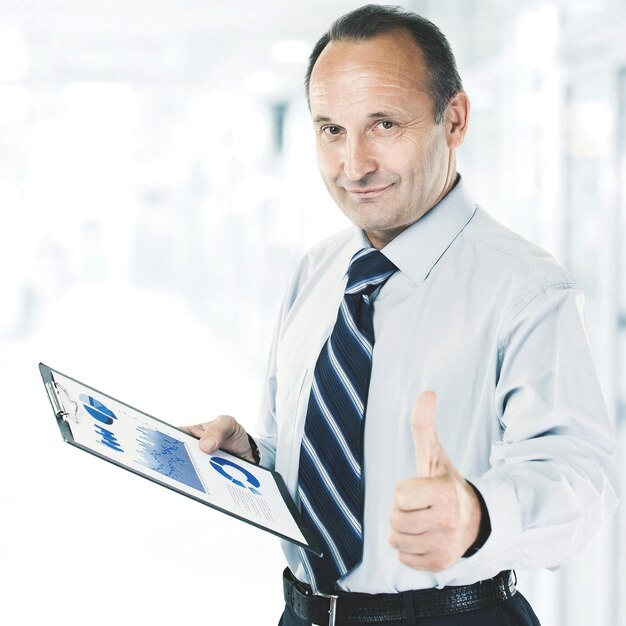
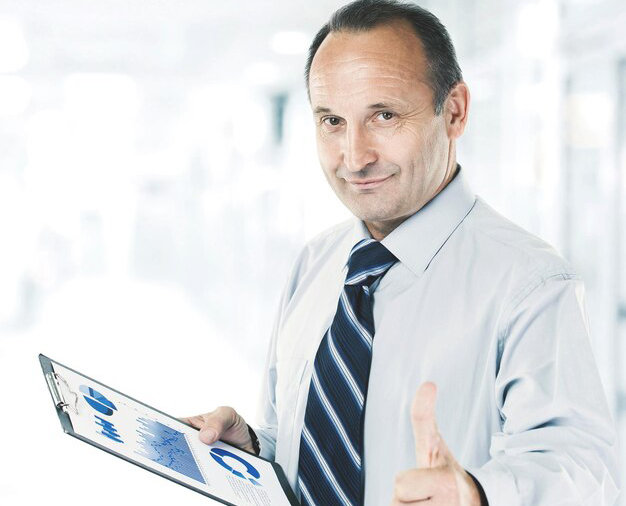
imageSet

diff --git a/src/app/components/landingpage/guaidanceCard/page.js b/src/app/components/landingpage/guaidanceCard/page.js
@@ -4,8 +4,8 @@ import React from 'react'
 const GuaidanceCard = () => {
     return (
         <div className='lg:flex block '>
-            <div className='w-full  lg:w-[40%] bg-white shadow-2xl p-10'>
-                <p className='text-4xl font-bold text-headingColor my-6'>Expert Guidance:</p>
+            <div className='w-full lg:h-[500px] h-full lg:w-[50%] bg-white shadow-2xl p-10'>
+                <p className='text-4xl font-bold text-headingColor my-2'>Expert Guidance:</p>
                 <div className='w-full h-1.5 bg-btnColor my-10'></div>
                 <p className='text-headingColor  text-md my-4'>In addition to our advanced technological tools, benefit from our team’s expertise:</p>
                 <p className='text-headingColor  text-md my-4'>-Banking Experts: Gain insights on best practices for presenting your project to banks. </p>
@@ -13,8 +13,8 @@ const GuaidanceCard = () => {
                 <p className='text-headingColor  text-md my-4'>- Insurance Professionals: Ensure your project is secured and compliant with investor requirements. </p>
                 <p className='text-headingColor  text-md my-4'>Each user receives a complimentary consultation with one of our experts to better steer their project.</p>
             </div>
-            <div className='w-full lg:w-[60%]'>
-                <Image className='w-full lg:h-full h-[300px]' src="/images/expertguidance.jpg" width={1000} height={1000} />
+            <div className='w-full lg:w-[50%]'>
+                <Image className='w-fulllg:w-[500px] lg:h-[500px] h-[300px]' src="/images/expertguidance.jpg" width={1000} height={1000} />
             </div>
         </div>
     )

diff --git a/src/app/components/landingpage/chooseCard/page.js b/src/app/components/landingpage/chooseCard/page.js
@@ -4,14 +4,14 @@ import React from 'react'
 const ChooseCard = () => {
     return (
         <div className='lg:flex block '>
-            <div className='w-full  lg:w-[40%] bg-white shadow-2xl p-10'>
+            <div className='w-full  lg:w-[50%] bg-white shadow-2xl p-10'>
                 <p className='text-4xl font-bold text-headingColor my-6'>Why Choose IziKemp?</p>
                 <p className='text-headingColor  text-lg mt-20 my-4'>- Accuracy and Trust: Our tools are based on recognized criteria, offering you a reliable analysis</p>
                 <p className='text-headingColor  text-lg my-4'>- Customization and Support:
                     Each report is unique and tailored to your project, with personalized guidance. </p>
                 <p className='text-headingColor  text-lg my-4'>- Dedicated Support: Our team is here to support you every step of the way.</p>
             </div>
-            <div className='w-full lg:w-[60%]'>
+            <div className='w-full lg:w-[50%]'>
                 <Image className='w-full lg:h-full h-[300px]' src="/images/financingsimulators.jpg" width={1000} height={1000} />
             </div>
         </div>

diff --git a/src/app/components/landingpage/heroSection/page.js b/src/app/components/landingpage/heroSection/page.js
@@ -4,10 +4,10 @@ import React from 'react'
 const HeroSection = () => {
     return (
         <div className='lg:flex block my-10'>
-            <div className='w-full lg:w-[60%]'>
-                <Image className='w-full lg:h-[500px] h-[300px]' src="/images/landingpage.png" width={1000} height={1000} />
+            <div className='w-full lg:w-[50%]'>
+                <Image className='w-[300px]  lg:w-[500px] lg:h-[500px] h-[300px]' src="/images/landingpage.png" width={1000} height={1000} />
             </div>
-            <div className='w-full  lg:w-[40%] bg-white shadow-2xl p-10'>
+            <div className='w-full  lg:w-[50%] bg-white shadow-2xl p-10'>
                 <p className='text-4xl font-bold text-headingColor my-6'>Boost Your Funding Prospects with IziKemp!</p>
                 <p className='text-headingColor text-lg my-8'>Access cutting-edge simulators and instantly generate personalized reports to assess your eligibility with banks and investment funds, accompanied by our expert guidance.</p>
             </div>

diff --git a/src/app/components/landingpage/sectionCard/page.js b/src/app/components/landingpage/sectionCard/page.js
@@ -4,10 +4,10 @@ import React from 'react'
 const SectionCard = () => {
     return (
         <div className='lg:flex block my-10'>
-            <div className='w-full lg:w-[60%]'>
+            <div className='w-full lg:w-[50%]'>
                 <Image className='w-full lg:h-full h-[300px]' src="/images/image1.jpg" width={1000} height={1000} />
             </div>
-            <div className='w-full  lg:w-[40%] bg-white shadow-2xl p-10'>
+            <div className='w-full  lg:w-[50%] bg-white shadow-2xl p-10'>
                 <p className='text-4xl font-bold text-headingColor my-6'>Section 1</p>
                 <p className='text-headingColor text-lg my-8'>At IziKemp, we understand the needs of entrepreneurs and project leaders. Our suite of innovative simulators provides you with the necessary tools to:</p>
                 <p className='text-headingColor text-lg my-8'>- Assess your funding eligibility with precise scoring based on bank and investment fund criteria.</p>

diff --git a/src/app/components/landingpage/simulationCard/page.js b/src/app/components/landingpage/simulationCard/page.js
@@ -5,7 +5,7 @@ const SimulationCard = () => {
     return (
         <div className='my-10 relative'>
             <div className='lg:flex block '>
-                <div className='w-full  lg:w-[50%] bg-black shadow-2xl p-10'>
+                <div className='w-full  lg:w-[50%] bg-desColor shadow-2xl p-10'>
                     <div className='w-14 h-1.5 bg-btnColor mt-10 mb-20'></div>
                     <div className='w-80 h-0.5 bg-white'></div>
                     <p className='text-white lg:w-96 w-full text-lg mt-20'>Instantly access personalized reports and tailored recommendations with IziKemp. Save time, cut costs, and maximize your funding opportunities in just a few clicks!</p>

diff --git a/src/app/components/landingpage/workCard/page.js b/src/app/components/landingpage/workCard/page.js
@@ -13,7 +13,7 @@ const WorkCard = () => {
         <div className='lg:flex items-center block my-10'>
             <div className='w-full lg:w-[50%]'>
                 <p className='text-4xl font-bold text-headingColor text-center my-6'>How It Works:</p>
-                <Image className='w-full h-full  lg:h-[580px]' src="/images/howitworks.jpg" width={1000} height={1000} />
+                <Image className='w-full h-full  lg:h-[580px] ' src="/images/howitworks.jpg" width={1000} height={1000} />
             </div>
             <div className='w-full  lg:w-[50%]  bg-white shadow-2xl p-10'>
                 <div className='flex items-center gap-6 bg-blue-200 p-3 rounded-md my-4'>

diff --git a/src/app/components/landingpage/ambitionCard/page.js b/src/app/components/landingpage/ambitionCard/page.js
@@ -5,7 +5,7 @@ const AmbitionCard = () => {
     return (
         <div className='lg:flex block my-10'>
             <div className='w-full lg:w-[50%]'>
-                <Image className='w-full lg:h-[500px] h-full' src="/images/happyman.jpg" width={1000} height={1000} />
+                <Image className='w-full lg:h-[400px] h-full' src="/images/happyman.jpg" width={1000} height={1000} />
             </div>
             <div className='w-full   lg:w-[50%]  bg-white shadow-2xl p-10'>
                 <p className='text-headingColor  text-3xl my-4'>Try IziKemp, generate
